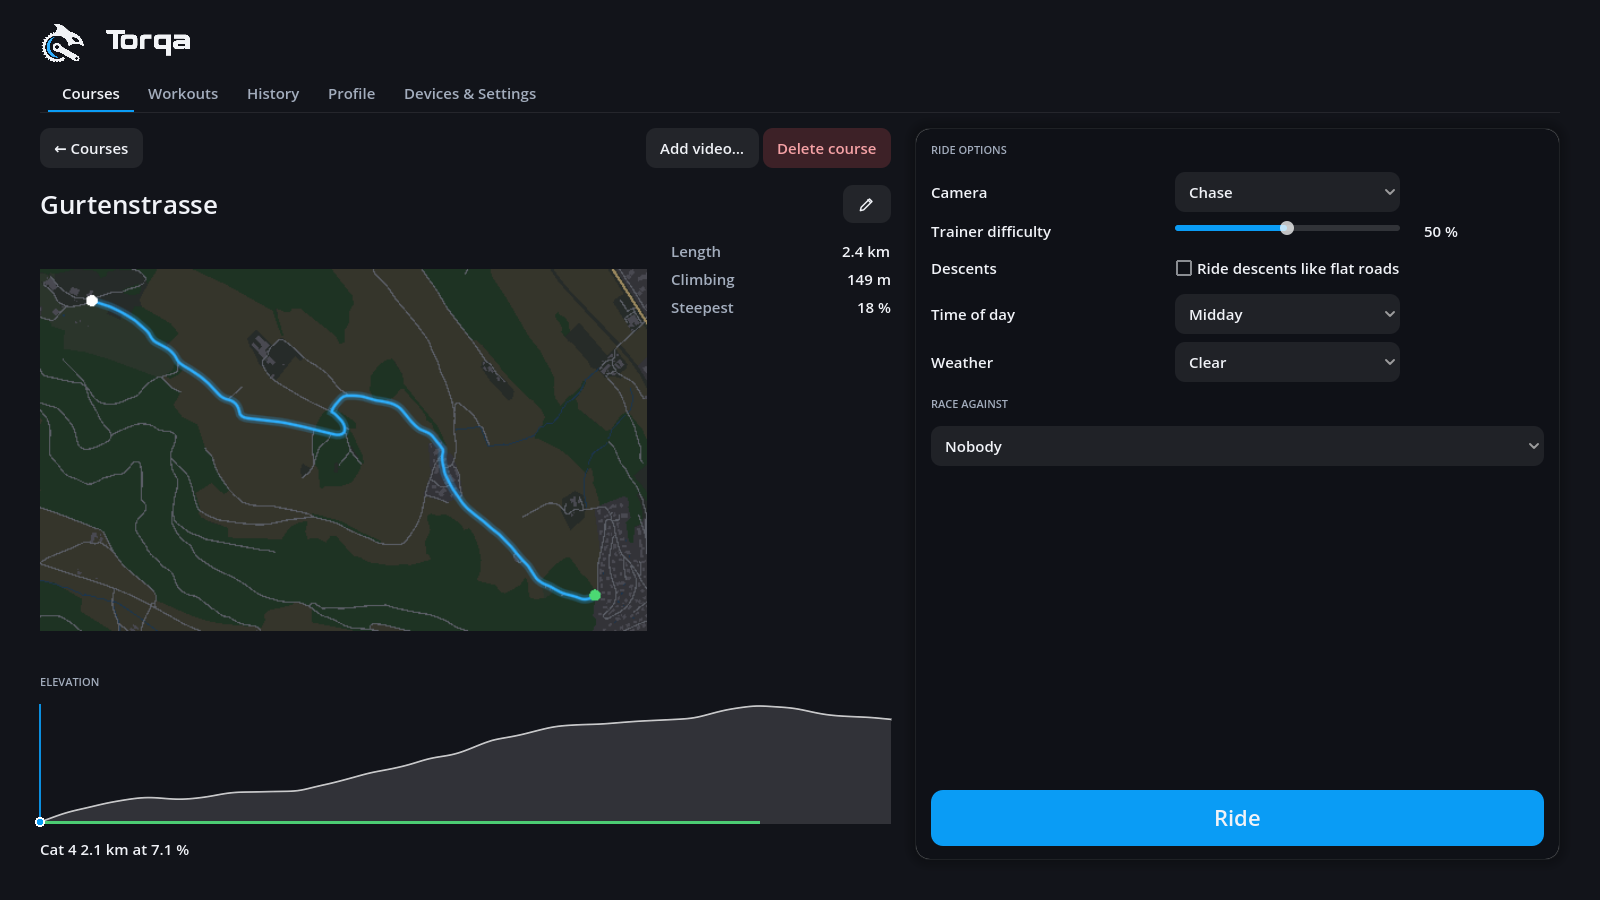
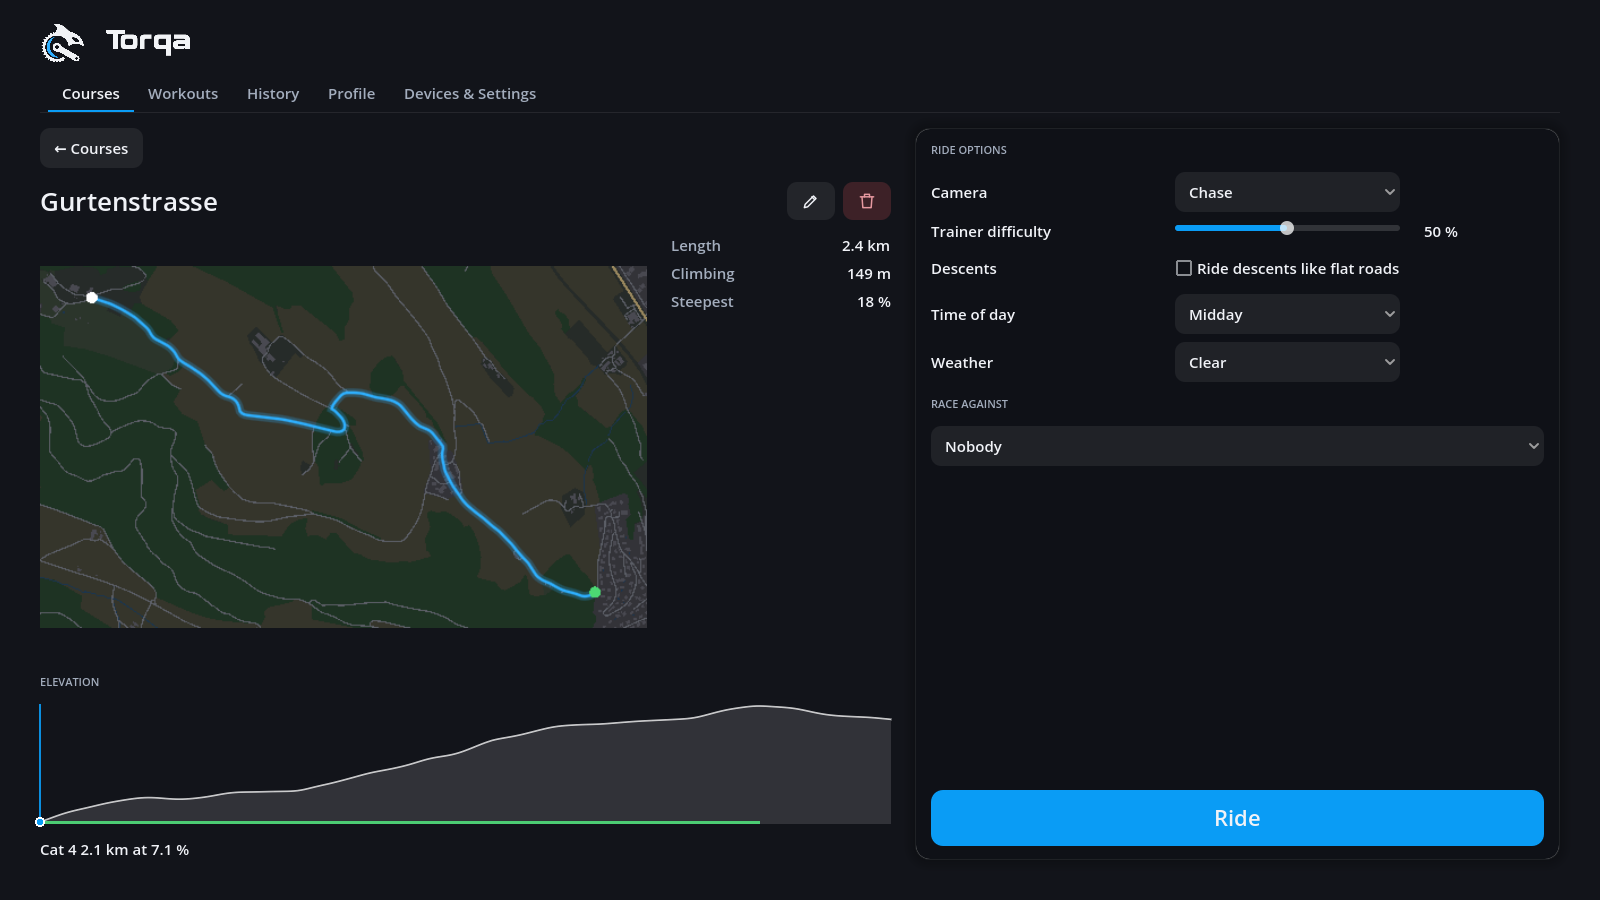
docs: the course page's Edit course in the docs' screenshots
The course page screenshot after #210 (pencil and bin on the title line),
the Edit course dialog in video.md, and #210 in the plan's UI items.

diff --git a/docs/video.md b/docs/video.md
@@ -38,8 +38,9 @@ A video without GPS cannot tell where it was filmed, so it is added to a course:
    and the ±1 s / ±0.1 s buttons, checking the frame above.
 4. Where the footage stops or changes speed (a traffic light, a steep climb), **Add point**:
    set its place on the route (shown on the elevation profile) and its moment in the video.
-
 5. **Save** in **Edit course**: the course is now ridden along the video.
+
+![Edit course: the name, and the video to ride along](images/app/course-edit.png)
 
 Between neighbouring points the video follows your distance evenly; the GPX's own timestamps
 are not used (they come from another recording). **Align video…** in **Edit course** changes
@@ -56,9 +57,9 @@ Open the course and press **Ride**: Torqa asks whether to ride **along the video
 3D** — a video course is a route like any other, so its 3D world is there too (built the
 first time you choose it; online, it fetches the terrain and map data the video course does
 not hold yet). Along the video, the video fills the screen, with your figures, map and
-elevation profile on top. Where you are on the route
-decides the moment of the video: it plays at the speed you ride, stands still when you stop,
-and blends smoothly from frame to frame even when you crawl up a steep climb.
+elevation profile on top. Where you are on the route decides the moment of the video: it
+plays at the speed you ride, stands still when you stop, and blends smoothly from frame to
+frame even when you crawl up a steep climb.
 
 The video's own **sound** plays along at the same speed, without sounding higher or deeper:
 it is stretched, not sped up like a tape. It fades out when you slow to a crawl or stop.

diff --git a/docs/PLAN.md b/docs/PLAN.md
@@ -212,6 +212,8 @@ Built in rideable steps:
   - [x] The summary's rename and delete as icon buttons (#190); buttons that delete are red
   - [x] The Profile tab and dialog: the rider as a heading, cards unfolding to every setting
     and the zones (#191, #194)
+  - [x] The course page's title line like a ride's: a pencil for Edit course (name, video), a
+    bin to delete it
 - **Exit:** start the app, pick a course from the gallery, ride it, see the summary, land back home
 
 ### Phase 9 — Graphics (R43–R47, [ADR 0009](adr/0009-asset-pipeline.md), [ADR 0011](adr/0011-stylized-look.md))
